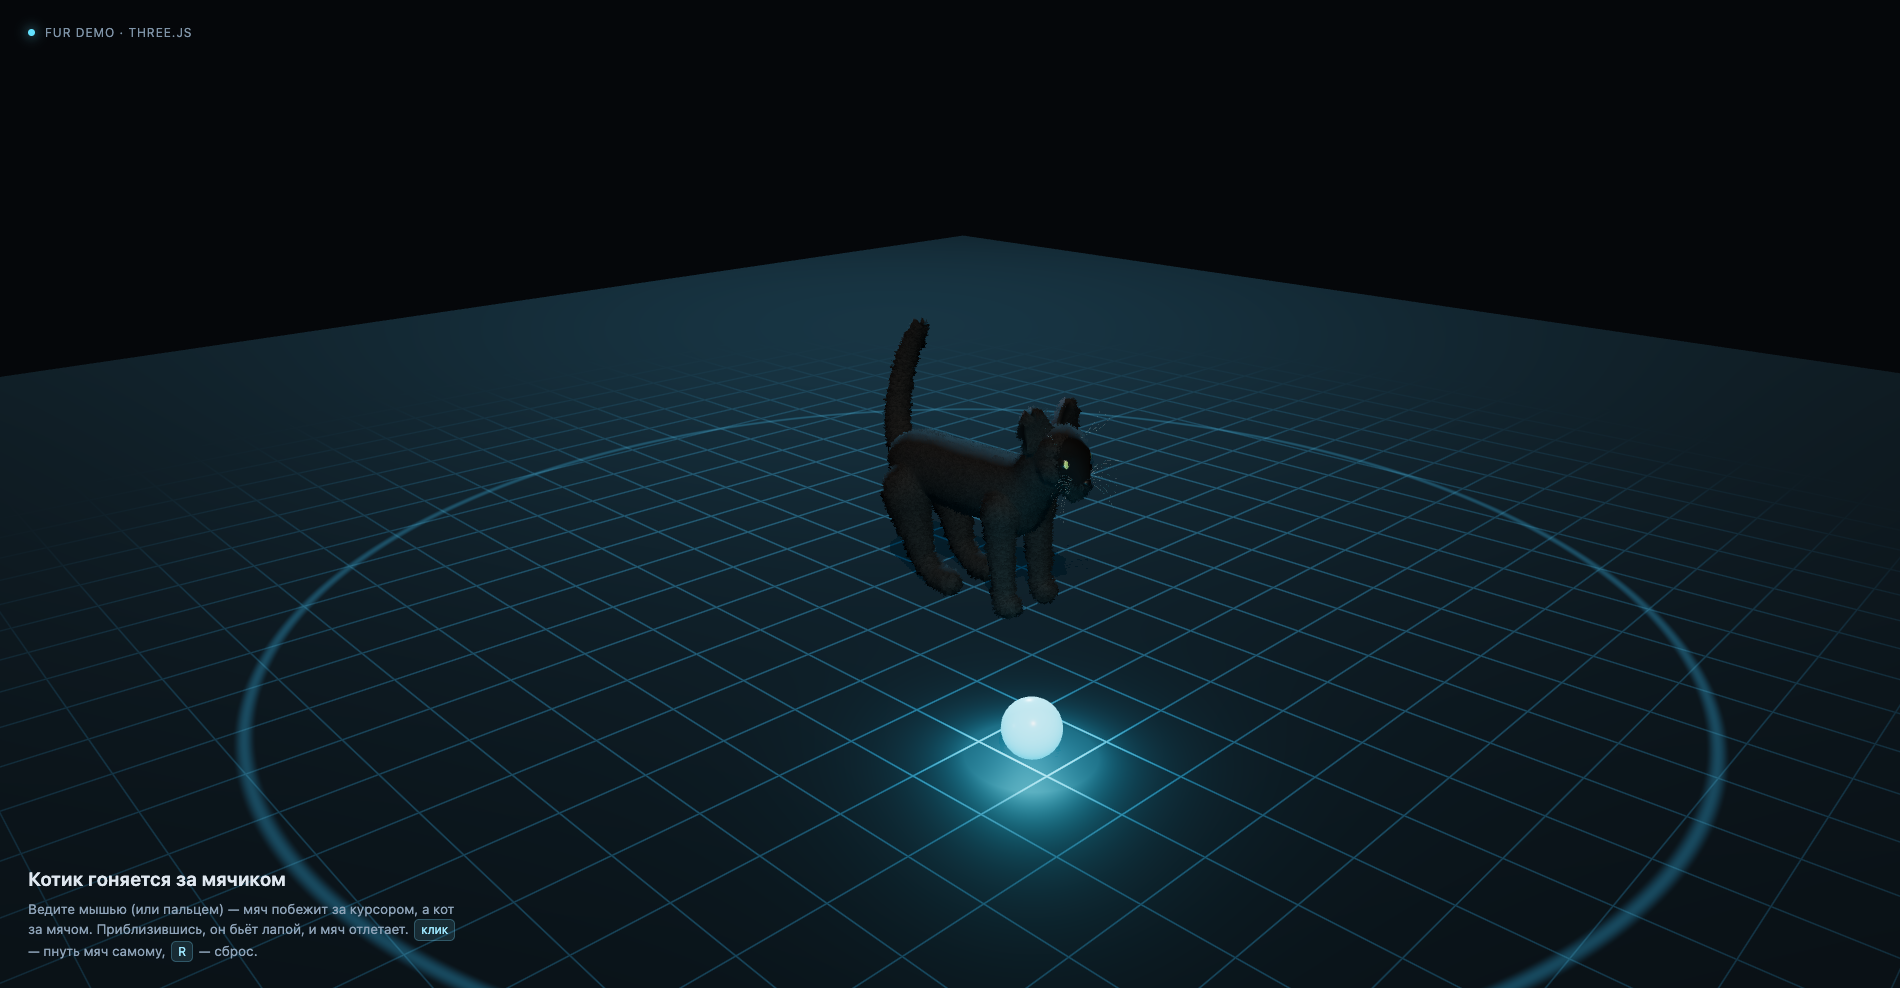
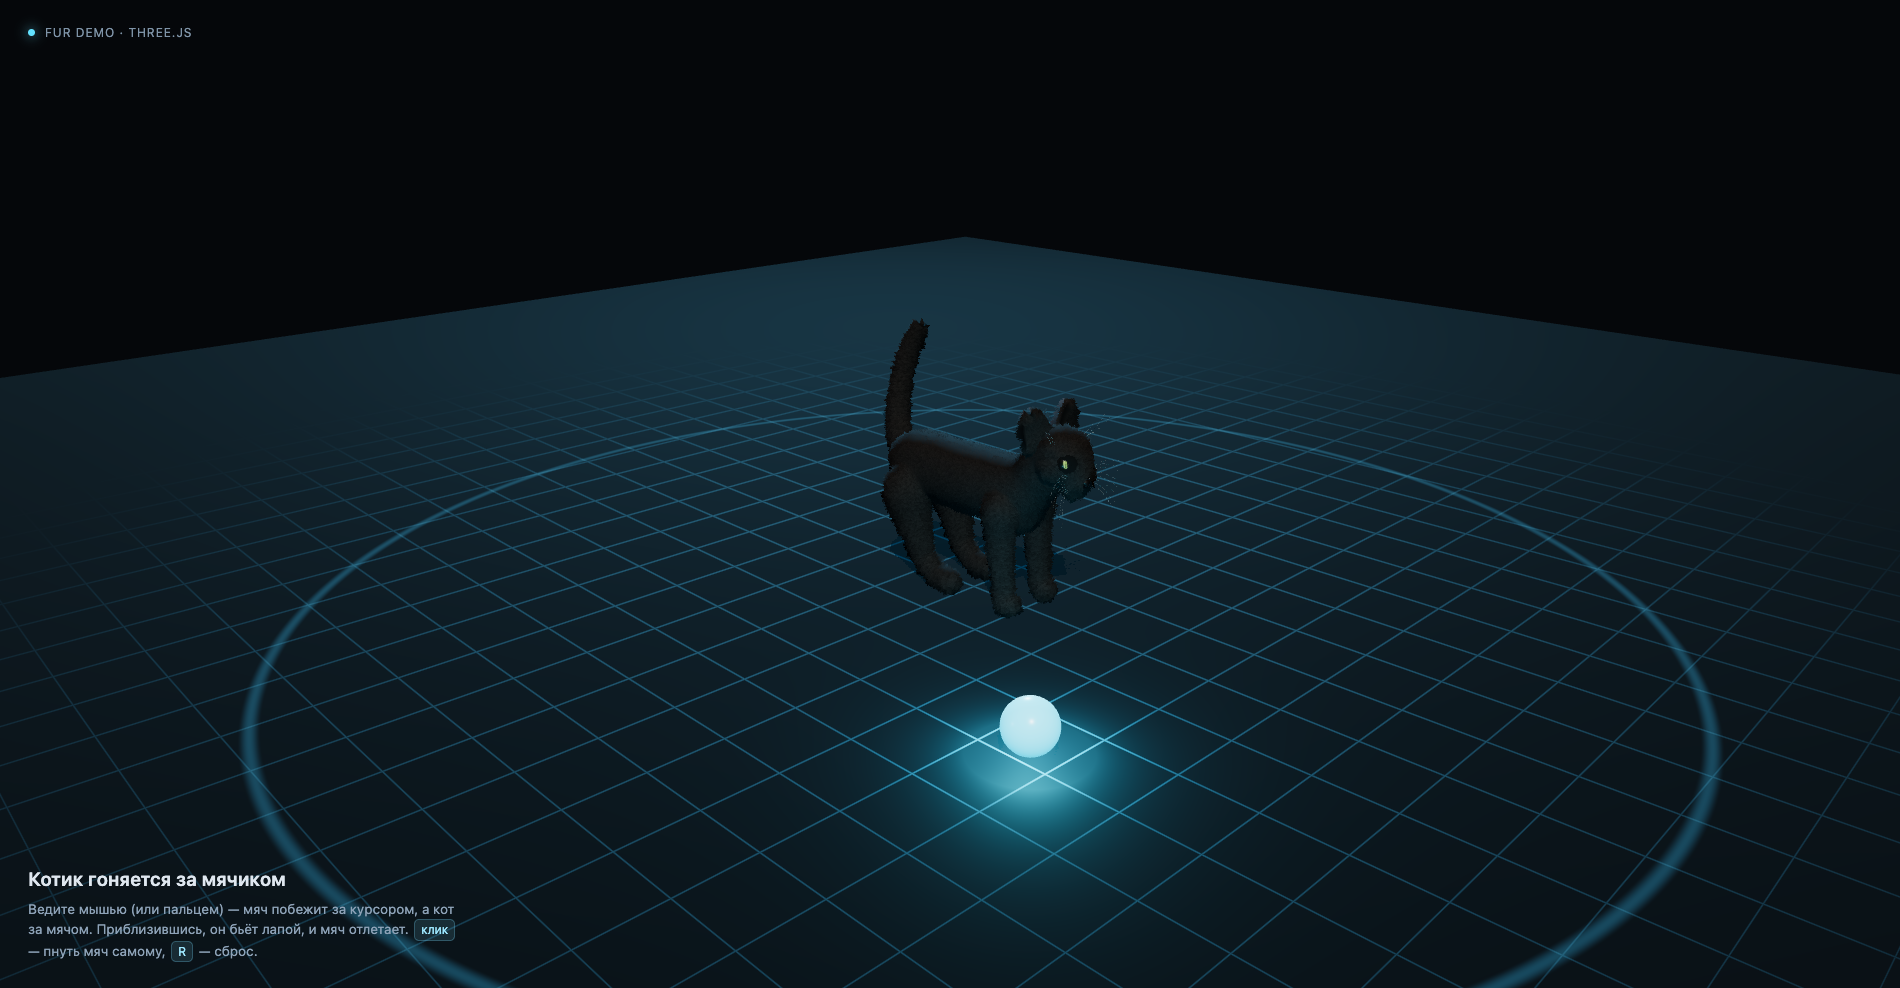
Мех на морде: сферы-«дырки» считаются по островкам геометрии (раньше центроид попадал между глаз и вырезал всю морду)

diff --git a/main.js b/main.js
@@ -159,7 +159,7 @@ float furHoleMask(vec3 p) {
   float m = 1.0;
   for (int i = 0; i < ${FUR_HOLES_MAX}; i++) {
     vec4 h = uFurHoles[i];
-    if (h.w > 0.0) m = min(m, smoothstep(h.w * 0.80, h.w * 1.45, distance(p, h.xyz)));
+    if (h.w > 0.0) m = min(m, smoothstep(h.w * 0.88, h.w * 1.25, distance(p, h.xyz)));
   }
   return m;
 }
@@ -217,12 +217,49 @@ function furMaterial(layer, layers, holes) {
   return mat;
 }
 
-// дырки в мехе берём прямо из геометрии морды: центры радужек и носовой кожи
-// (вершины в bind-пространстве, как и у CatBody — оба меша дети арматуры)
+// дырки в мехе берём прямо из геометрии морды: по одной сфере на радужку и на
+// носовую кожу. Радужки обоих глаз лежат в одном glTF-примитиве, поэтому считаем
+// не центроид группы (он попал бы между глазами), а связные островки геометрии.
+function geometryIslands(start, count, idx, pos) {
+  const parent = new Map();
+  const find = (a) => { while (parent.get(a) !== a) { parent.set(a, parent.get(parent.get(a))); a = parent.get(a); } return a; };
+  const add = (a) => { if (!parent.has(a)) parent.set(a, a); };
+  const v = (i) => (idx ? idx.getX(i) : i);
+  for (let i = start; i < start + count; i += 3) {
+    const a = v(i), b = v(i + 1), c = v(i + 2);
+    add(a); add(b); add(c);
+    let ra = find(a), rb = find(b);
+    if (ra !== rb) parent.set(ra, rb);
+    ra = find(b); rb = find(c);
+    if (ra !== rb) parent.set(ra, rb);
+  }
+  const byRoot = new Map();
+  for (const key of parent.keys()) {
+    const r = find(key);
+    if (!byRoot.has(r)) byRoot.set(r, []);
+    byRoot.get(r).push(key);
+  }
+  const out = [];
+  for (const verts of byRoot.values()) {
+    if (verts.length < 3) continue;
+    const c = new THREE.Vector3();
+    for (const i of verts) c.add(new THREE.Vector3(pos.getX(i), pos.getY(i), pos.getZ(i)));
+    c.multiplyScalar(1 / verts.length);
+    let r = 0;
+    const p = new THREE.Vector3();
+    for (const i of verts) {
+      p.set(pos.getX(i), pos.getY(i), pos.getZ(i));
+      r = Math.max(r, p.distanceTo(c));
+    }
+    out.push({ c, r });
+  }
+  return out;
+}
+
 function collectFurHoles(model) {
-  const holes = [];
   const face = model.getObjectByName('CatFace');
-  if (!face) return holes;
+  const found = [];
+  if (!face) return [];
   face.traverse((o) => {
     if (!o.isMesh || !o.geometry) return;
     const mats = Array.isArray(o.material) ? o.material : [o.material];
@@ -235,23 +272,22 @@ function collectFurHoles(model) {
     for (const g of groups) {
       const m = mats[g.materialIndex];
       if (!m) continue;
-      const scale = /Iris/i.test(m.name) ? 1.02 : (/Nose/i.test(m.name) ? 1.20 : 0);
-      if (!scale) continue;
-      const c = new THREE.Vector3();
-      for (let i = g.start; i < g.start + g.count; i++) {
-        const vi = idx ? idx.getX(i) : i;
-        c.x += pos.getX(vi); c.y += pos.getY(vi); c.z += pos.getZ(vi);
+      const iris = /Iris/i.test(m.name), nose = /Nose/i.test(m.name);
+      if (!iris && !nose) continue;
+      const scale = iris ? 1.45 : 1.05;      // чуть шире самой радужки / носа
+      for (const isl of geometryIslands(g.start, g.count, idx, pos)) {
+        if (isl.r > 0) found.push(new THREE.Vector4(isl.c.x, isl.c.y, isl.c.z, isl.r * scale));
       }
-      c.multiplyScalar(1 / Math.max(1, g.count));
-      let r = 0;
-      for (let i = g.start; i < g.start + g.count; i++) {
-        const vi = idx ? idx.getX(i) : i;
-        r = Math.max(r, Math.hypot(pos.getX(vi) - c.x, pos.getY(vi) - c.y, pos.getZ(vi) - c.z));
-      }
-      if (r > 0) holes.push(new THREE.Vector4(c.x, c.y, c.z, r * scale));
     }
   });
-  return holes.slice(0, FUR_HOLES_MAX);
+  // колец радужки четыре, а глаз два: оставляем по одной (самой большой) сфере на глаз
+  found.sort((a, b) => b.w - a.w);
+  const holes = [];
+  for (const h of found) {
+    if (holes.length >= FUR_HOLES_MAX) break;
+    if (holes.every((k) => Math.hypot(h.x - k.x, h.y - k.y, h.z - k.z) > k.w * 0.9)) holes.push(h);
+  }
+  return holes;
 }
 
 // ------------------------------------------------------------------ cat

diff --git a/README.md b/README.md
@@ -64,9 +64,12 @@ npx serve .
 
 Мех растёт на 17 мм, а глаза и нос сидят глубоко в черепе, поэтому шейдер вырезает в мехе
 «дырки» (юниформа `uFurHoles`): центры и радиусы берутся прямо из геометрии морды
-(`collectFurHoles()` — сферы вокруг радужек и носовой кожи). Маска считается по
-*смещённой* вершине оболочки (`vFurDisp_`), иначе ворсинки, растущие с края глазницы,
-всё равно накрывали бы глаз. Нулевой слой (сама кожа) не режется никогда — иначе в
+(`collectFurHoles()` — сферы вокруг радужек и носовой кожи). Радужки обоих глаз лежат в одном
+glTF-примитиве, поэтому сферы считаются не по центроиду группы (он попадал бы между глазами
+и вырезал всю морду), а по связным островкам геометрии (`geometryIslands()`): одна сфера на
+глаз, одна на нос, остальные кольца радужки отбрасываются как близкие к уже найденной сфере.
+Маска считается по *смещённой* вершине оболочки (`vFurDisp_`), иначе ворсинки, растущие с края
+глазницы, всё равно накрывали бы глаз. Нулевой слой (сама кожа) не режется никогда — иначе в
 «дырках» появлялась прозрачная область и через голову было видно фон.
 
 ### Модель
